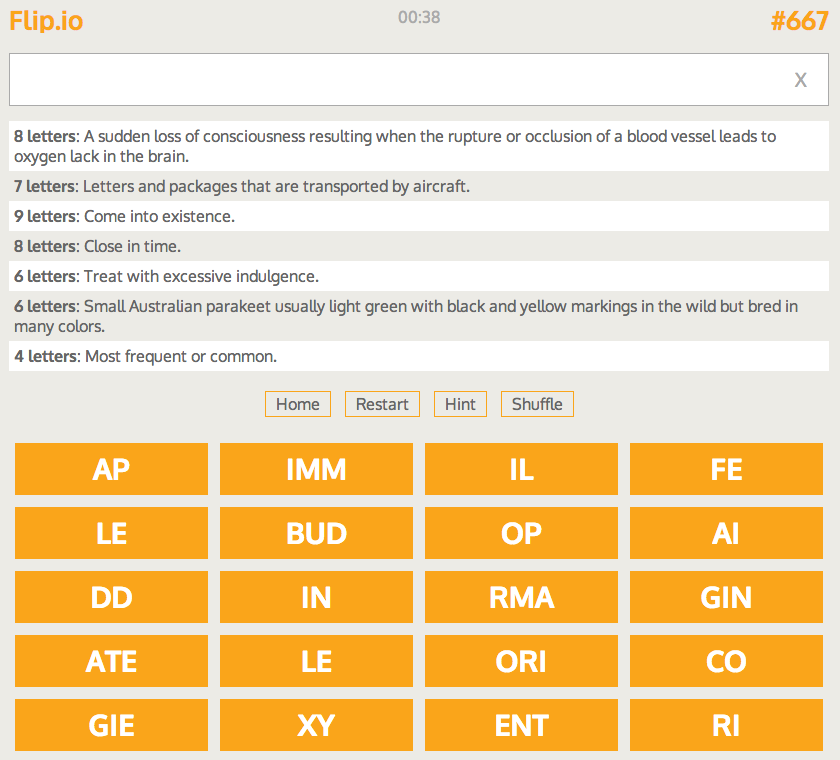
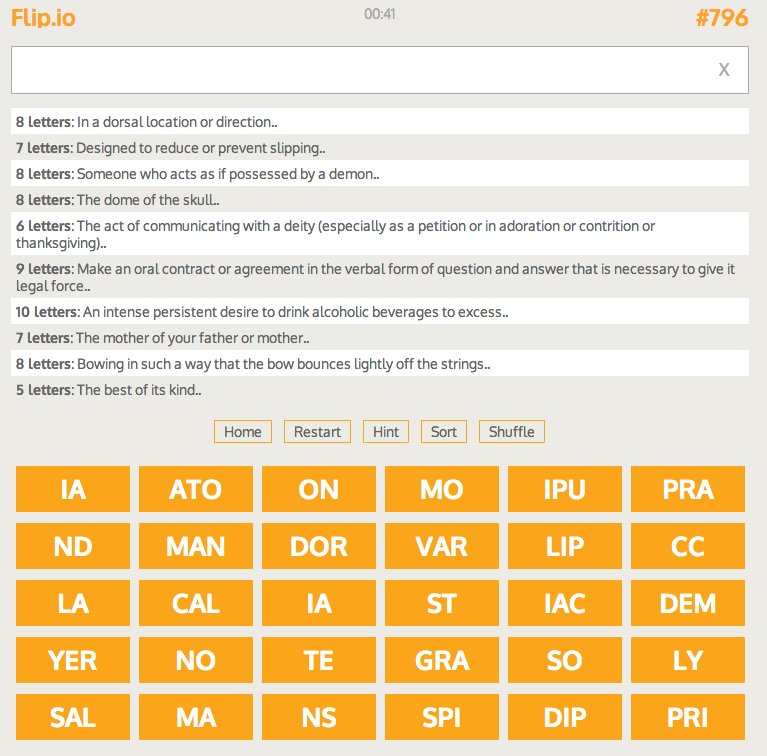
fixed timer and updated screenshots

diff --git a/app.js b/app.js
@@ -566,17 +566,24 @@ App.PuzzleView = Backbone.View.extend({
 
 // ----- misc functions
 
-function formatTime(sec){
+function formatTime(seconds){
 
-	var hr = Math.floor(sec / 3600);
-	var min = Math.floor((sec - (hr * 3600))/60);
-	sec -= ((hr * 3600) + (min * 60));
-	sec += ''; min += '';
-	while (min.length < 2) {min = '0' + min;}
-	while (sec.length < 2) {sec = '0' + sec;}
-	hr = (hr)?':'+hr:'';
+    var hours = Math.floor(seconds / 3600);
+    seconds -= hours * 3600;
+    var minutes = Math.floor(seconds / 60);
+    seconds -= minutes * 60;
 
-    return hr + min + ':' + sec;
+    if (hours   < 10) {hours   = '0' + hours;}
+    if (minutes < 10) {minutes = '0' + minutes;}
+    if (seconds < 10) {seconds = '0' + seconds;}
+
+    if(hours == '00'){
+        hours = '';
+    } else {
+        hours = hours + ':';
+    }
+
+    return hours + minutes + ':' + seconds;
 
 }
 
